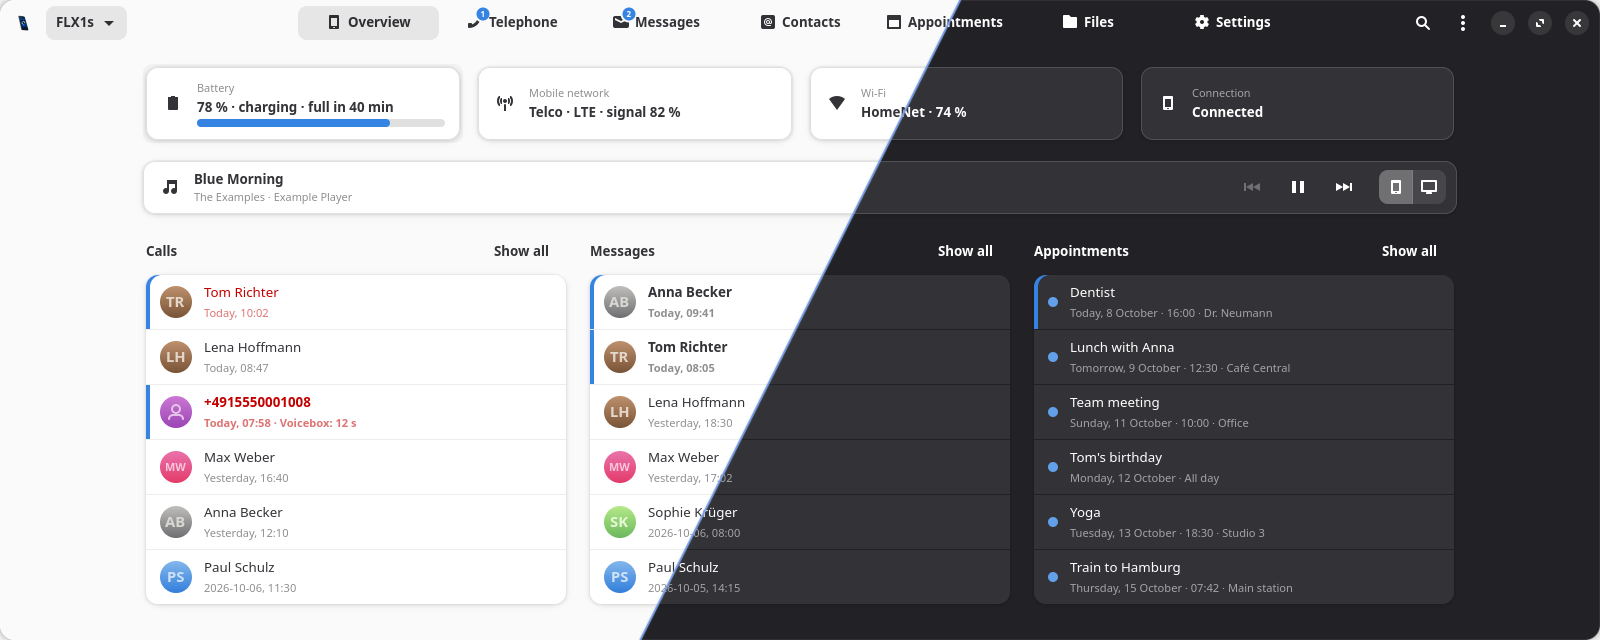
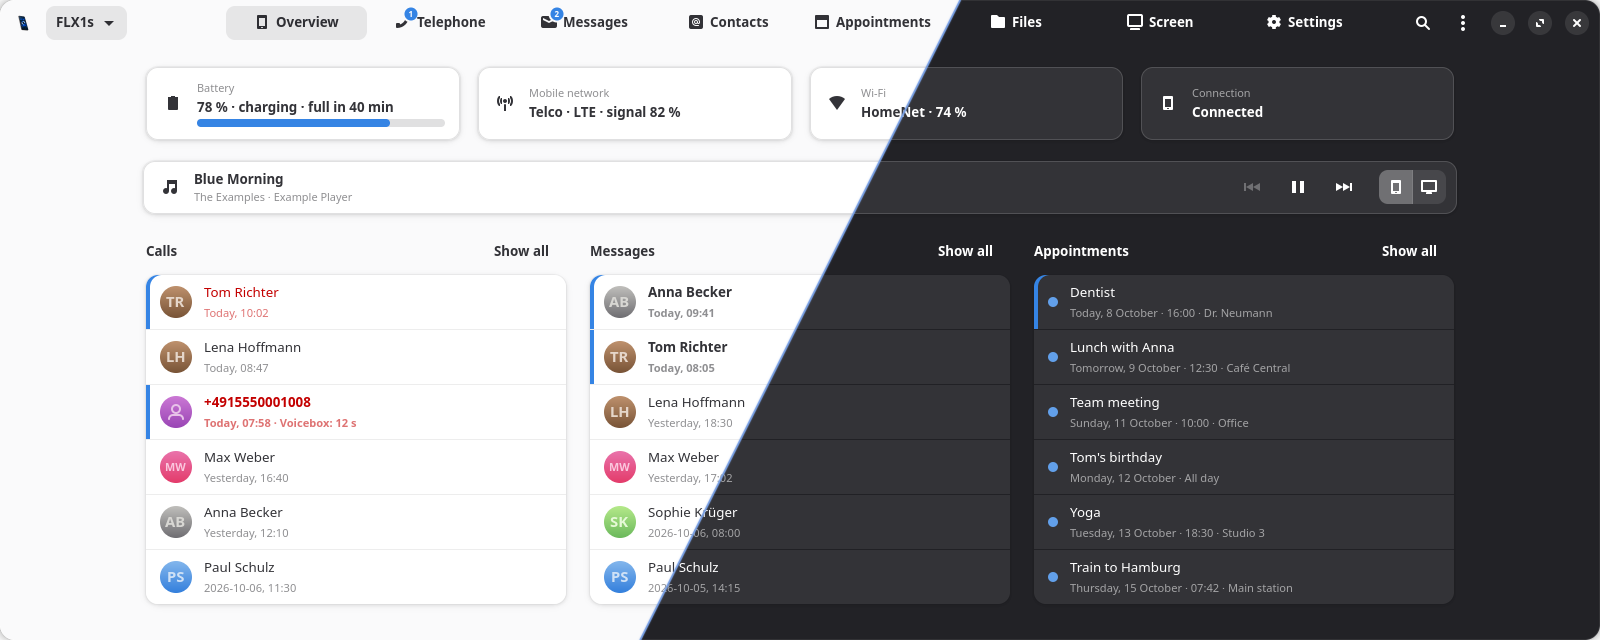
README: a screenshot of every page
Every page as it opens, in dark, in a collapsible table under the
overview (light and dark split diagonally, as before - taken anew).
tools/screenshot-demo.py takes them: DEMO_PAGE picks the page; the files
are a made-up home (never this PC's), the contacts invented, dates in
English, and the screen page shows the desktop session (sharing the
screen would record this PC's).

Changed region(s): [[0.1562, 0.0, 0.8438, 0.0625]]

diff --git a/tools/screenshot-demo.py b/tools/screenshot-demo.py
@@ -15,7 +15,12 @@ message and a stand-in evolution-data-server - nothing real is shown.
 
 With DEMO_SHOT the window is drawn into that PNG once everything has come
 and the demo ends; without, it stays open for DEMO_SECONDS (20). A made-up
-music player plays, so the overview shows its bar."""
+music player plays, so the overview shows its bar.
+
+DEMO_PAGE picks the page (overview, phone, messages, contacts, calendar,
+files, screen, settings); DEMO_WIDTH and DEMO_HEIGHT the window's size.
+The files are a made-up home, never this PC's; the screen page shows the
+desktop session (sharing the screen would record this PC's here)."""
 
 import datetime as dt
 import json
@@ -42,8 +47,34 @@ os.environ.update({
     "PHONEBRIDGE_DATA": os.path.join(work, "data"),
     "PHONEBRIDGE_ADDRESSBOOKS": os.path.join(work, "none"),
     "PHONEBRIDGE_KEYRING": "memory", "PHONEBRIDGE_LANGUAGE": "en", "LANGUAGE": "en",
+    # English dates in GTK too (the calendar), the week from Monday
+    "LC_ALL": "en_GB.UTF-8", "LANG": "en_GB.UTF-8",
     "GSETTINGS_BACKEND": "memory", "ADW_DISABLE_PORTAL": "1", "GDK_DEBUG": "no-portals",
+    # the phone's files: a made-up home - the agent runs here
+    "PHONEBRIDGE_FILES_HOME": os.path.join(work, "phone-home"),
+    "PHONEBRIDGE_THUMBNAILS": os.path.join(work, "thumbnails"),
+    # what a desktop session needs, as if the phone had it all
+    "PHONEBRIDGE_GNOME_SHELL": os.path.join(work, "bin", "gnome-shell"),
+    "PHONEBRIDGE_GRD": os.path.join(work, "bin", "gnome-remote-desktop-daemon"),
 })
+os.environ["PATH"] = os.path.join(work, "bin") + os.pathsep + os.environ["PATH"]
+os.makedirs(os.path.join(work, "bin"))
+for name, body in (("gnome-shell", "exit 0"), ("gnome-remote-desktop-daemon", "exit 0"),
+                   ("grdctl", "exit 0"),
+                   # sudo: may run iptables (desktop.check asks "-n -l"), nothing else
+                   ("sudo", '[ "$1 $2" = "-n -l" ] && exit 0; exit 1')):
+    with open(os.path.join(work, "bin", name), "w") as f:
+        f.write("#!/bin/sh\n%s\n" % body)
+    os.chmod(os.path.join(work, "bin", name), 0o755)
+home = os.environ["PHONEBRIDGE_FILES_HOME"]
+for folder, files in (("Documents", ("Invoice 2026-09.pdf", "Notes.txt", "Packing list.odt")),
+                      ("Downloads", ("timetable.pdf", "recipe-lasagne.pdf")),
+                      ("Music", ()), ("Pictures", ()), ("Videos", ()), ("Recordings", ()),
+                      ("Pictures/Screenshots", ())):
+    os.makedirs(os.path.join(home, folder), exist_ok=True)
+    for name in files:
+        with open(os.path.join(home, folder, name), "w") as f:
+            f.write("demo\n" * 200)
 
 from tests.support import Store  # noqa: E402
 
@@ -159,11 +190,18 @@ events = [("e1", "Lunch with Anna", at(1, 12, 30), at(1, 13, 30), "Café Central
           ("e6", "Train to Hamburg", at(7, 7, 42), at(7, 11, 5), "Main station", False)]
 for uid, summary, s, e, loc, allday in events:
     eds.events[uid] = vevent(uid, summary, s, e, loc, allday)
+for n, (number, name) in enumerate(sorted(people.items(), key=lambda p: p[1]), 1):
+    first, last = name.split(" ", 1)
+    eds.contacts["c%d" % n] = (
+        "BEGIN:VCARD\r\nVERSION:3.0\r\nUID:c%d\r\nFN:%s\r\nN:%s;%s;;;\r\n"
+        "TEL;TYPE=CELL:%s\r\nEMAIL;TYPE=INTERNET:%s@example.org\r\nEND:VCARD\r\n"
+        % (n, name, last, first, number, first.lower()))
 
 config.CONFIG_DIR = os.environ["PHONEBRIDGE_CONFIG"]
 # two conversations unread (Anna, Tom), the others read
 config.save(dict(config.DEFAULTS, language="en", devices=[
     {"id": "flx1s", "name": "FLX1s", "host": "phone", "user": "furios"}],
+    screen={"quality": "normal", "mode": "desktop", "desktop_size": [1600, 900]},
     seen={"flx1s": {"baseline": 2, "threads": {
         "+4915550001004": 6, "+4915550001006": 8, "+4915550001007": 9}}}))
 
@@ -204,12 +242,14 @@ def ready():
     app.window = MainWindow(app)
     app.window.set_default_size(int(os.environ.get("DEMO_WIDTH", "1600")),
                                 int(os.environ.get("DEMO_HEIGHT", "640")))
-    app.show_window("overview")
+    page = os.environ.get("DEMO_PAGE", "overview")
+    app.show_window(page)
     # after showing (that follows the desktop) - light or dark as asked, never
     # as this desktop is
     Adw.StyleManager.get_default().set_color_scheme(
         Adw.ColorScheme.FORCE_DARK if os.environ.get("DEMO_DARK") else Adw.ColorScheme.FORCE_LIGHT)
-    app.window.overview.load(force=True)
+    if page == "overview":
+        app.window.overview.load(force=True)
     if os.environ.get("DEMO_SHOT"):
         GLib.timeout_add(4000, shoot)
     return False

diff --git a/README.md b/README.md
@@ -15,8 +15,20 @@ install on the phone.
 <img alt="PhoneBridge's overview, light and dark: battery, network and Wi-Fi of the phone,
   the last calls, conversations and the next appointments" src="data/screenshots/overview.png">
 
-<sub>The screenshot shows invented people and data (`tools/screenshot-demo.py`,
+<sub>The screenshots show invented people and data (`tools/screenshot-demo.py`,
 light and dark joined by `tools/screenshot-diagonal.py`).</sub>
+
+<details>
+<summary><b>More screenshots</b> - every page as it opens</summary>
+
+| | |
+|:---:|:---:|
+| <a href="data/screenshots/phone.png"><img src="data/screenshots/phone.png" alt="Telephone: dial pad and recent calls, with a voice message"></a><br>**Telephone** - dial pad and recent calls | <a href="data/screenshots/messages.png"><img src="data/screenshots/messages.png" alt="Messages: conversations by day, unread ones marked"></a><br>**Messages** - conversations, unread ones marked |
+| <a href="data/screenshots/contacts.png"><img src="data/screenshots/contacts.png" alt="Contacts: the phone's address book"></a><br>**Contacts** - the phone's address book | <a href="data/screenshots/calendar.png"><img src="data/screenshots/calendar.png" alt="Appointments: month view and agenda"></a><br>**Appointments** - month and agenda |
+| <a href="data/screenshots/files.png"><img src="data/screenshots/files.png" alt="Files: the phone's home folder"></a><br>**Files** - the phone's home folder | <a href="data/screenshots/screen.png"><img src="data/screenshots/screen.png" alt="Screen: sharing the phone's screen, or a desktop session over RDP"></a><br>**Screen** - screen sharing or a desktop session |
+| <a href="data/screenshots/settings.png"><img src="data/screenshots/settings.png" alt="Settings: quick settings of the phone"></a><br>**Settings** - the phone's settings | |
+
+</details>
 
 Made for Phosh phones, and explicitly for the **FuriLabs FLX1 / FLX1s** running FuriOS -
 that is where it is developed and tested. Other Phosh phones with the same stack (ofono,
